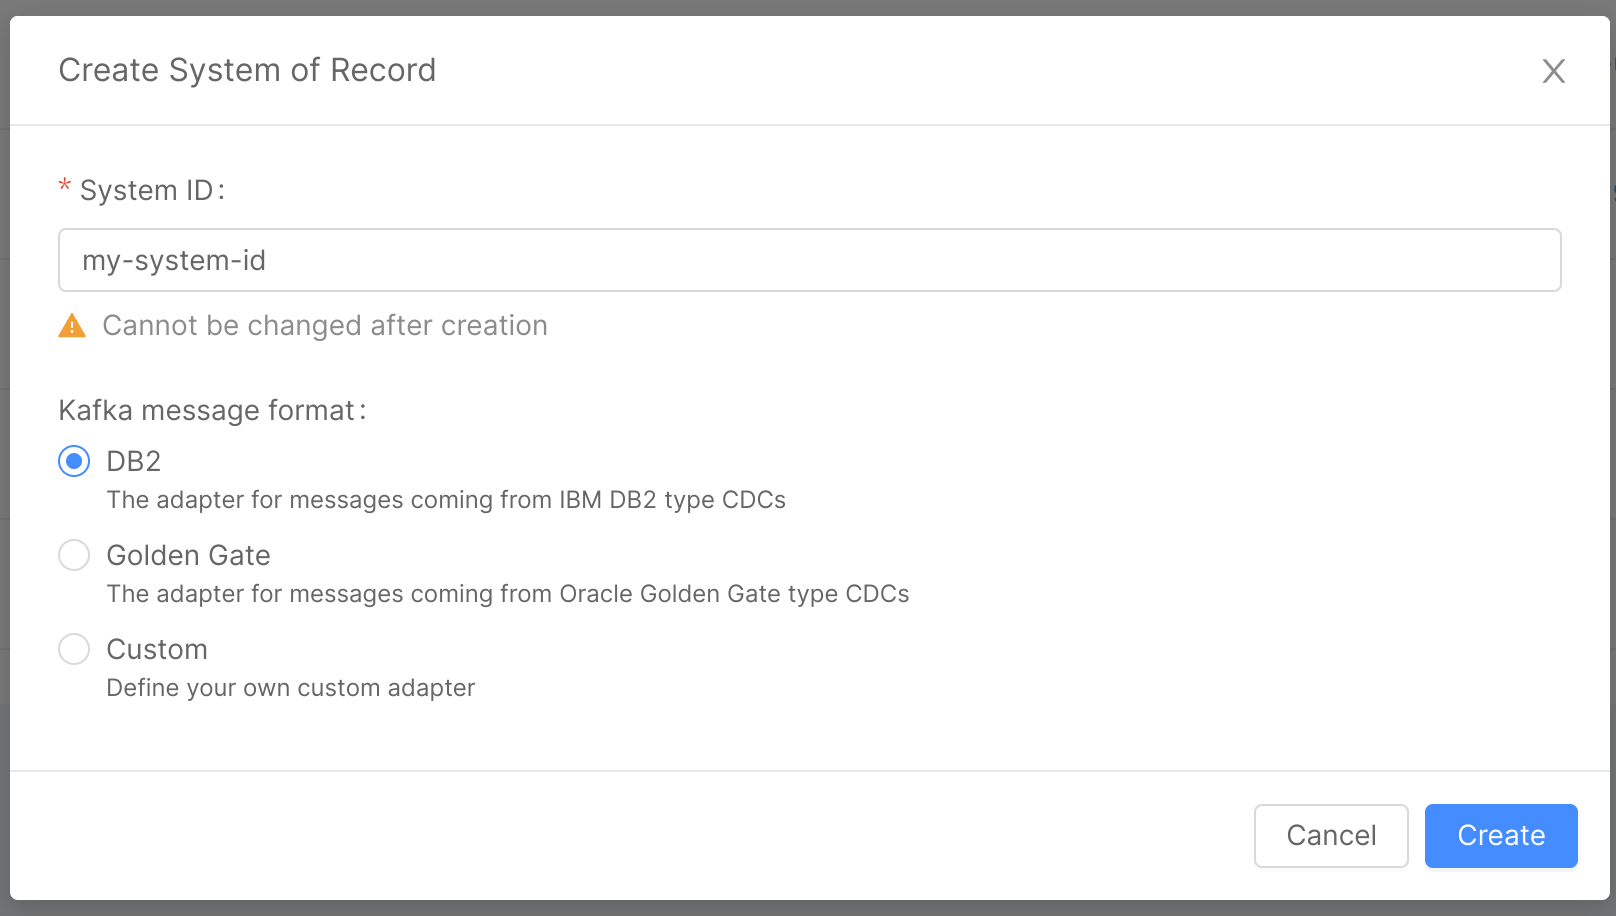
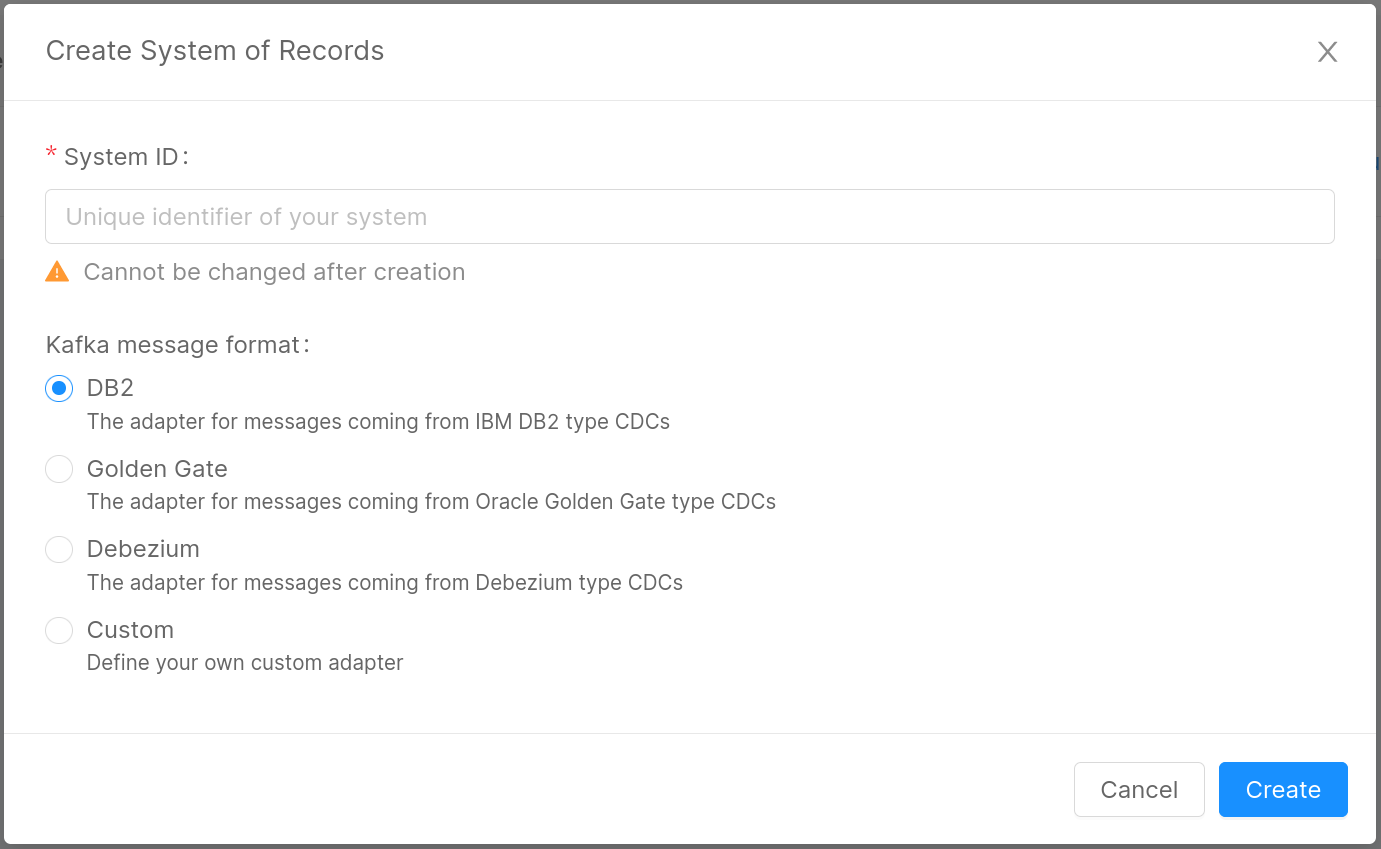
feat: replaced the create new system of records image

Changed region(s): [[0.0, 0.0, 0.9964, 1.0], [0.9964, 0.1837, 1.0, 0.2144], [0.9341, 0.0612, 0.9652, 0.0919]]

diff --git a/docs/fast_data/configuration/projections.md b/docs/fast_data/configuration/projections.md
@@ -12,7 +12,11 @@ To create a Projection, you should first of all create a System of Records, whic
 
 To do so, open the **Projections** section in the Fast Data group of Mia-Platform Console. Then, select the `Create new System of Records` button.
 
-The creation of a System of Records requires you to insert a System ID, which is basically the name to recognize the System, and to choose the [Kafka message adapter](/fast_data/configuration/realtime_updater/common.md#kafka-adapters-kafka-messages-format). The System of Records is then created.
+The creation of a System of Records requires you to insert a System ID, which is basically the name to recognize the System, and to choose the [Kafka message adapter](/fast_data/configuration/realtime_updater/common.md#kafka-adapters-kafka-messages-format). 
+
+![Create a System of Records](../img/create_system_of_record.png)
+
+The System of Records is then created.
 
 ## Delete a System of Records
 
